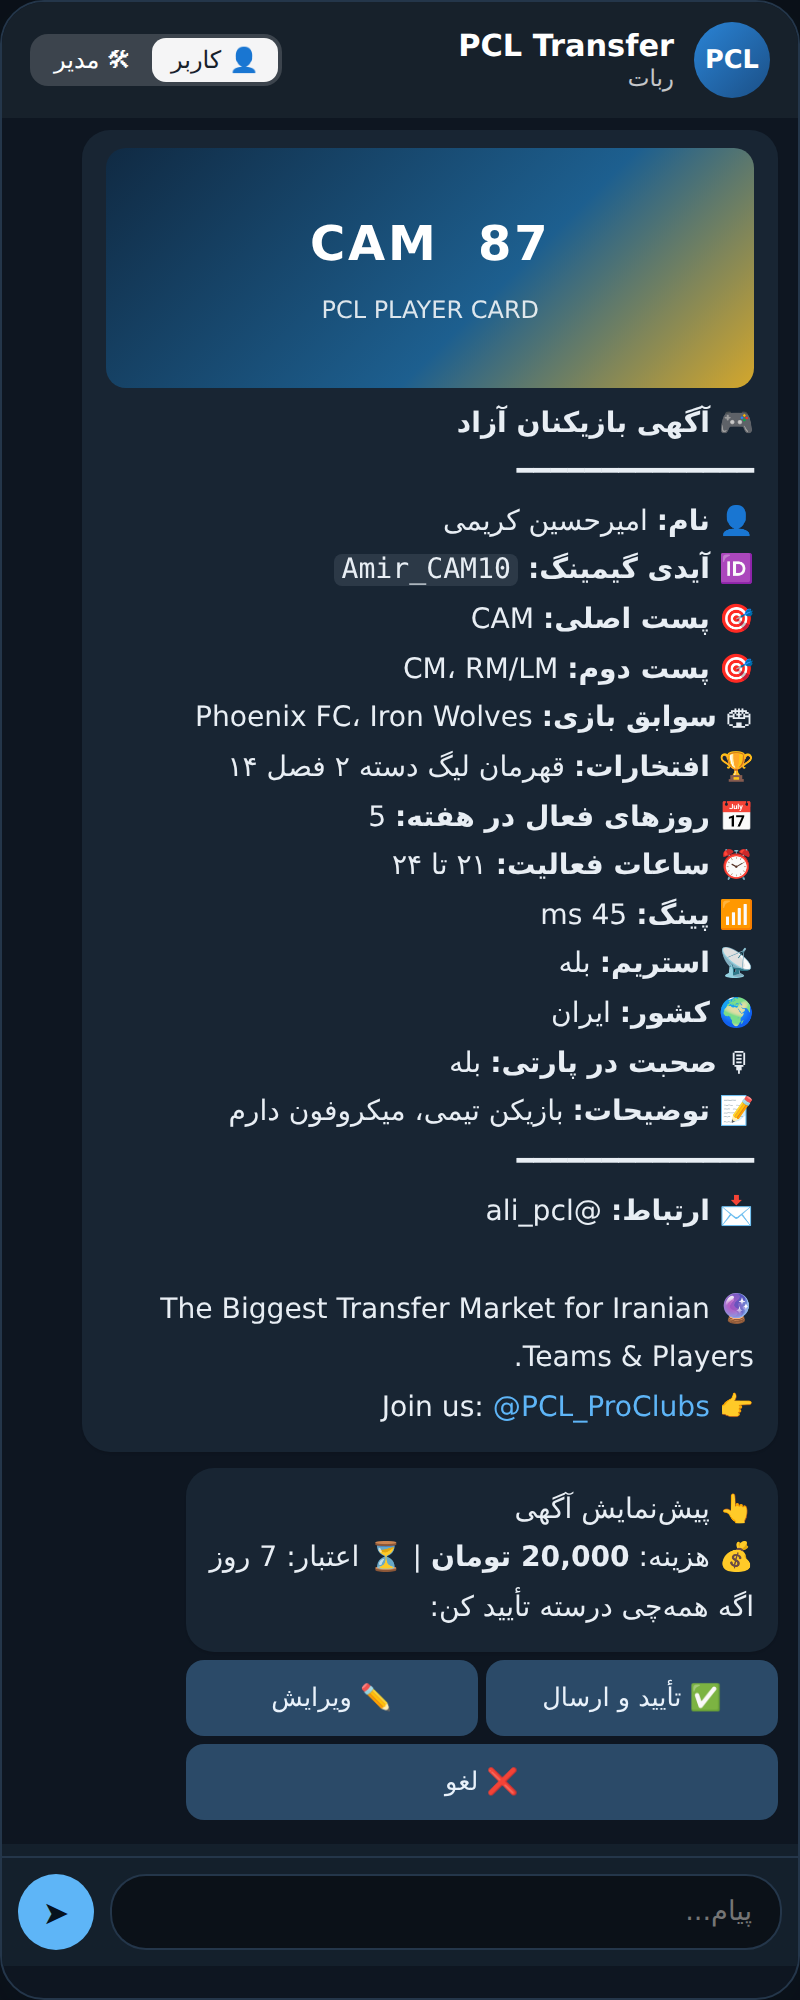
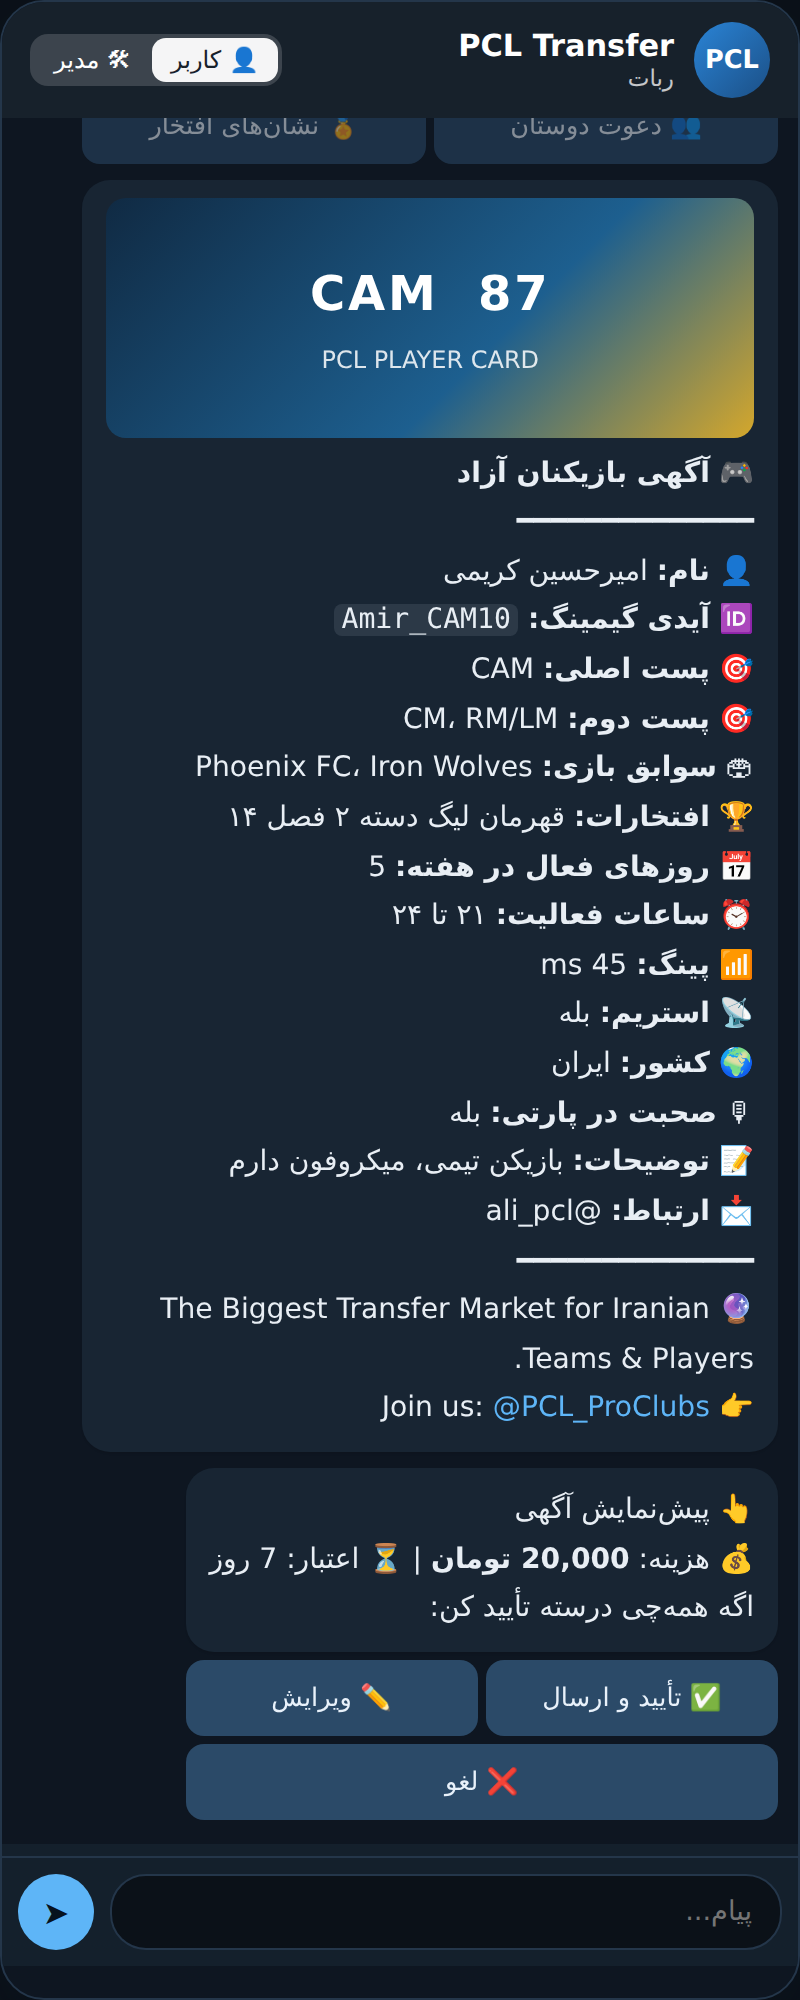
Ad layout: contact line above the closing divider, footer alone below it
Claude-Session: https://claude.ai/code/session_01EM746abNYmdLe7nAFDnghT

diff --git a/demo/index.html b/demo/index.html
@@ -129,8 +129,8 @@ function groupView(){
 }
 function adHtml(a,prev){
  const d=a.d,st=a.special?`<span class="star">⭐ ویژه</span>\n`:'';
- if(a.kind==='player')return `🎮 <b>آگهی بازیکنان آزاد</b>\n${st}${L}\n👤 <b>نام:</b> ${esc(d.name)}\n🆔 <b>آیدی گیمینگ:</b> <code>${esc(d.psn)}</code>\n🎯 <b>پست اصلی:</b> ${esc(d.pos1)}\n🎯 <b>پست دوم:</b> ${esc(d.pos2)}\n🏟 <b>سوابق بازی:</b> ${esc(d.history)}\n🏆 <b>افتخارات:</b> ${esc(d.honors)}\n${d.days?`📅 <b>روزهای فعال در هفته:</b> ${esc(d.days)}\n`:''}⏰ <b>ساعات فعالیت:</b> ${esc(d.hours)}\n${d.ping?`📶 <b>پینگ:</b> ${esc(d.ping)} ms\n`:''}${d.stream?`📡 <b>استریم:</b> ${esc(d.stream)}\n`:''}${d.country?`🌍 <b>کشور:</b> ${esc(d.country)}\n`:''}${d.party?`🎙 <b>صحبت در پارتی:</b> ${esc(d.party)}\n`:''}${d.notes?`📝 <b>توضیحات:</b> ${esc(d.notes)}\n`:''}${L}\n📩 <b>ارتباط:</b> @ali_pcl\n\n🔮 The Biggest Transfer Market for Iranian Teams &amp; Players.\n👉 Join us: <span class="tag">@PCL_ProClubs</span>`;
- return `🛡 <b>آگهی جذب بازیکن</b>\n${st}${L}\n🏷 <b>تیم:</b> ${esc(d.team)}\n🎯 <b>پستهای موردنیاز:</b> ${esc(d.positions)}\n🔢 <b>تعداد موردنیاز:</b> ${esc(d.count)}\n⏰ <b>ساعات فعالیت:</b> ${esc(d.hours)}\n📋 <b>شرایط جذب:</b> ${esc(d.terms)}\n${d.notes?`📝 <b>توضیحات:</b> ${esc(d.notes)}\n`:''}${L}\n📩 <b>ارتباط:</b> ${esc(d.captain_tg)}\n\n🔮 The Biggest Transfer Market for Iranian Teams &amp; Players.\n👉 Join us: <span class="tag">@PCL_ProClubs</span>`}
+ if(a.kind==='player')return `🎮 <b>آگهی بازیکنان آزاد</b>\n${st}${L}\n👤 <b>نام:</b> ${esc(d.name)}\n🆔 <b>آیدی گیمینگ:</b> <code>${esc(d.psn)}</code>\n🎯 <b>پست اصلی:</b> ${esc(d.pos1)}\n🎯 <b>پست دوم:</b> ${esc(d.pos2)}\n🏟 <b>سوابق بازی:</b> ${esc(d.history)}\n🏆 <b>افتخارات:</b> ${esc(d.honors)}\n${d.days?`📅 <b>روزهای فعال در هفته:</b> ${esc(d.days)}\n`:''}⏰ <b>ساعات فعالیت:</b> ${esc(d.hours)}\n${d.ping?`📶 <b>پینگ:</b> ${esc(d.ping)} ms\n`:''}${d.stream?`📡 <b>استریم:</b> ${esc(d.stream)}\n`:''}${d.country?`🌍 <b>کشور:</b> ${esc(d.country)}\n`:''}${d.party?`🎙 <b>صحبت در پارتی:</b> ${esc(d.party)}\n`:''}${d.notes?`📝 <b>توضیحات:</b> ${esc(d.notes)}\n`:''}📩 <b>ارتباط:</b> @ali_pcl\n${L}\n🔮 The Biggest Transfer Market for Iranian Teams &amp; Players.\n👉 Join us: <span class="tag">@PCL_ProClubs</span>`;
+ return `🛡 <b>آگهی جذب بازیکن</b>\n${st}${L}\n🏷 <b>تیم:</b> ${esc(d.team)}\n🎯 <b>پستهای موردنیاز:</b> ${esc(d.positions)}\n🔢 <b>تعداد موردنیاز:</b> ${esc(d.count)}\n⏰ <b>ساعات فعالیت:</b> ${esc(d.hours)}\n📋 <b>شرایط جذب:</b> ${esc(d.terms)}\n${d.notes?`📝 <b>توضیحات:</b> ${esc(d.notes)}\n`:''}📩 <b>ارتباط:</b> ${esc(d.captain_tg)}\n${L}\n🔮 The Biggest Transfer Market for Iranian Teams &amp; Players.\n👉 Join us: <span class="tag">@PCL_ProClubs</span>`}
 const BK=(to='menu',t='🔙 بازگشت')=>[[t,to]];
 const STT={pending:'⏳ در انتظار تأیید',approved:'✅ تأییدشده و منتشرشده',rejected:'❌ ردشده',expired:'⌛ منقضیشده'};
 function menu(){

diff --git a/pclbot/texts.py b/pclbot/texts.py
@@ -134,7 +134,7 @@ def render_ad(ad: dict, user: dict | None = None, preview: bool = False) -> str:
         )
     if d.get("notes"):
         body += f"📝 <b>توضیحات:</b> {e(d['notes'])}\n"
-    body += f"{line}\n📩 <b>ارتباط:</b> {contact_line(ad, user)}\n\n{AD_FOOTER}"
+    body += f"📩 <b>ارتباط:</b> {contact_line(ad, user)}\n{line}\n{AD_FOOTER}"
     return body
 
 
